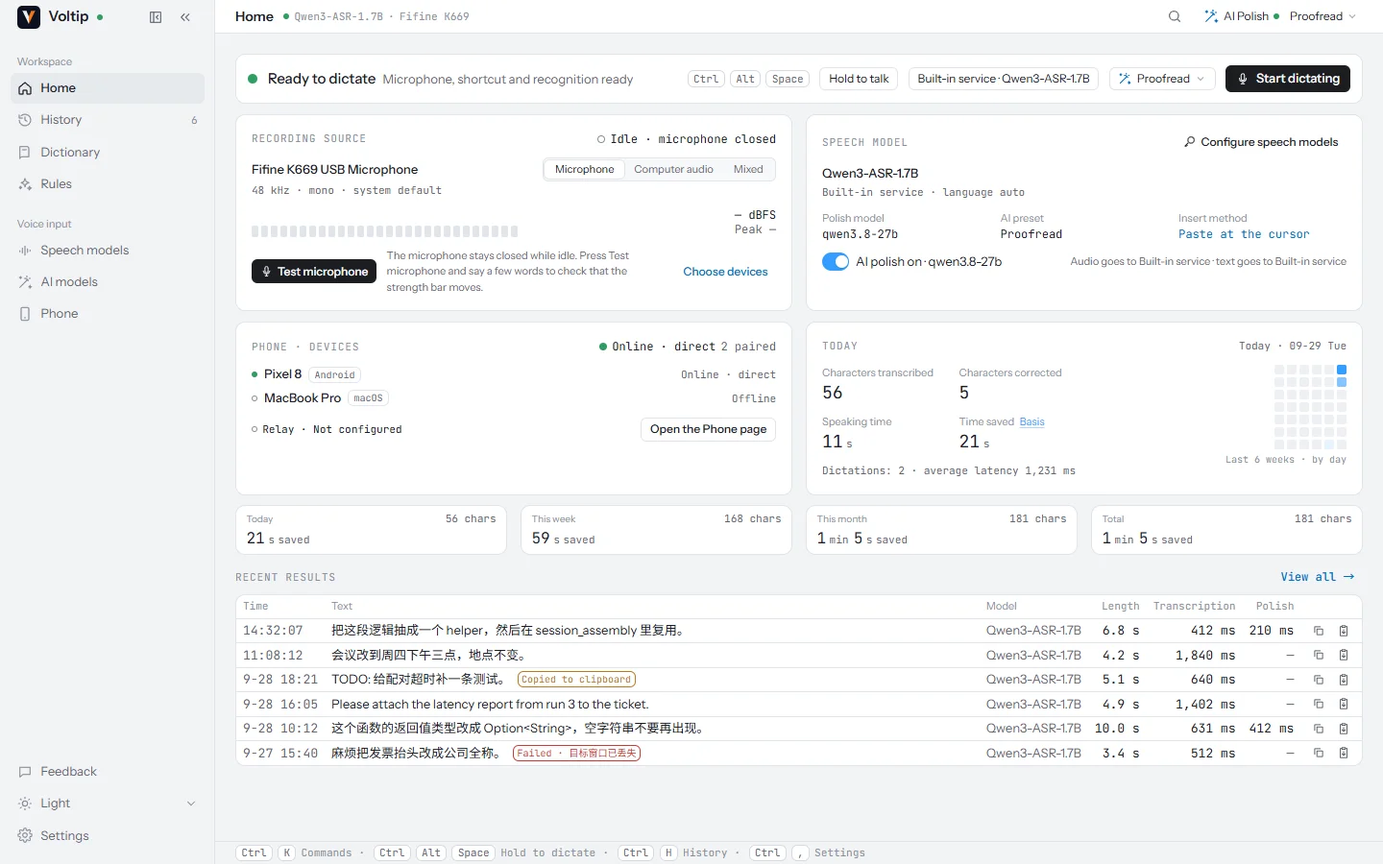
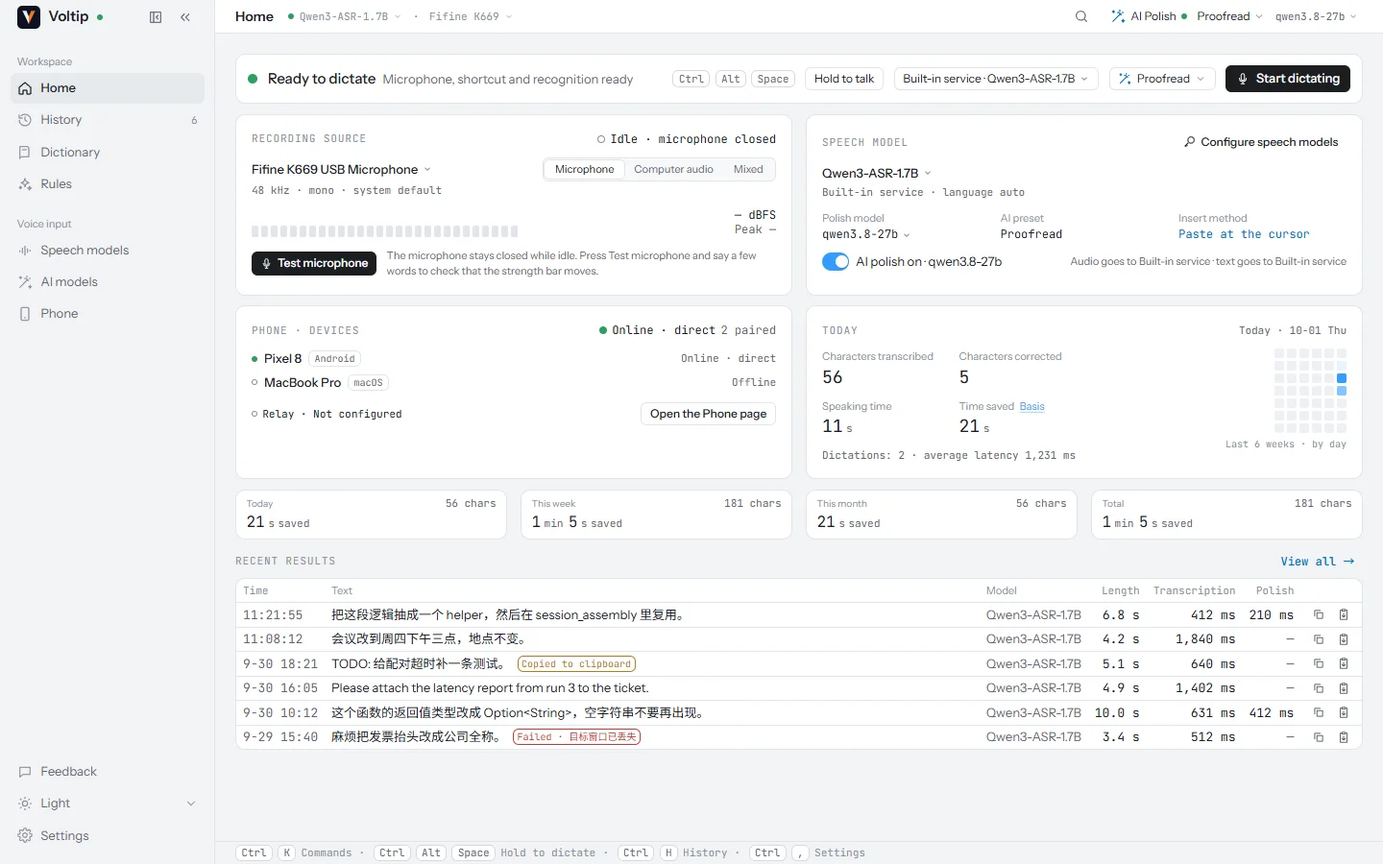
docs(voltip): sync from voltip@0d60085
Source: https://github.com/sunerpy/voltip/commit/0d60085446e918ea8d0e398802675c93cbf6c0b5

diff --git a/voltip/src/zh/dev/frontend.md b/voltip/src/zh/dev/frontend.md
@@ -18,7 +18,7 @@
 
 ## 2. 组件（`packages/ui`，每个都有 Vitest 测试）
 
-`Card Panel(eyebrow) Eyebrow Badge(tone: neutral|ok|accent|danger|warn|info|ink，ok = 中性底 + 绿点) Chip Button(primary|outline|ghost|danger, disabled) IconButton Toggle Segmented Input(icon, keys, focus) Select Keycap/Keycaps LedMeter Waveform(2px 条 2px 间距圆头镜像，近端 accent 尾迹 subtle 55%) Heatmap Sparkline Progress Table(列类型 text|mono|chip|badge|toggle|progress|lamp|actions|keys|link|radio|two) LampText Readout Pill(胶囊八态) Toast Dialog(叠加时各有名称，Esc 只关最上面的) Menu(菜单按钮：单选行 / 命令行 / 分组，键盘可用，每行不折行) EmptyState CommandPalette ThemeTile Sidebar Toolbar(读数：中文标签 + 可读值 + 状态点) StatusRow`
+`Card Panel(eyebrow) Eyebrow Badge(tone: neutral|ok|accent|danger|warn|info|ink，ok = 中性底 + 绿点) Chip Button(primary|outline|ghost|danger, disabled) IconButton Toggle Segmented Input(icon, keys, focus) Select Keycap/Keycaps LedMeter Waveform(2px 条 2px 间距圆头镜像，近端 accent 尾迹 subtle 55%) Heatmap Sparkline Progress Table(列类型 text|mono|chip|badge|toggle|progress|lamp|actions|keys|link|radio|two) LampText Readout Pill(胶囊八态) Toast Dialog(叠加时各有名称，Esc 只关最上面的) Menu(菜单按钮：单选行 / 命令行 / 分组，单选行可带右侧次要文字 `detail` 与 `disabled`（键盘跳过），`onOpen` 在每次打开时调用，键盘可用，每行不折行) EmptyState CommandPalette ThemeTile Sidebar Toolbar(读数：中文标签 + 可读值 + 状态点) StatusRow`
 
 ## 3. IPC 契约（`packages/shared`）
 
@@ -135,9 +135,10 @@ type UiEvent = { type: "state" } & UiState | { type: "identity" } & DeviceIdenti
 
 桌面（`apps/desktop/src`，窗口 1152×720 起，最小 960×600，可缩放）：侧栏 224 + **标题栏 40** + 主区。
 
-- **标题栏只做标题栏，但把事实放回标题栏**：主窗口无原生装饰（`tauri.conf.json` `decorations: false, shadow: true`；macOS 由 `tauri.macos.conf.json` 保留交通灯 `titleBarStyle: "Overlay"`，并按 RFC 7396 完整重述窗口几何），`packages/ui` `TitleBar` 与侧栏品牌行构成一条连续的 40 px `data-tauri-drag-region="deep"`。标题栏从左到右：页标题（拖拽区）→ **紧凑读数**（`readouts` prop，`data-testid="title-bar-readout"`：mono 11 px `text-fg-subtle`，最多两项——默认引擎模型 + 令牌状态灯、麦克风短名——以 ` · ` 分隔，窄时省略号截断，窗口窄于 `md`（768 px）时 `hidden md:flex` 整体隐藏；标签只进 tooltip，不上屏；仍在拖拽区内）→ `Ctrl K` 搜索**图标按钮**（tooltip「搜索或输入命令 · Ctrl K」，没有输入框）→ **AI 润色开关**（`wand` 图标 + 文字「AI 润色」/「AI Polish」+ 状态灯，`aria-label="润色 · 开/关"`，tooltip 说明开关方向；点击真实写 `settings_set_engines { refine_enabled }`，`aria-pressed` 跟随 `state.engines.refine_enabled`）→ Windows / Linux 最右 46×40 的最小化 · 最大化/还原 · 关闭（`apps/desktop/src/app/window.ts` 包一层 `getCurrentWindow()`，浏览器预览无 Tauri 时不画按钮；平台由 UA 判定 `app/platform.ts`，identity 只作兜底）。**标题栏下方没有第二行页头**（原 `PageHeader` 组件已删除）；标题栏上没有示例数据 chip。不自写双击最大化；触控 / 笔用 `startDragging()` 兜底。已接受的降级：Windows 11 Snap Layouts 悬停面板不可用（WebView2 上游限制）。
+- **标题栏只做标题栏，但把事实放回标题栏**：主窗口无原生装饰（`tauri.conf.json` `decorations: false, shadow: true`；macOS 由 `tauri.macos.conf.json` 保留交通灯 `titleBarStyle: "Overlay"`，并按 RFC 7396 完整重述窗口几何），`packages/ui` `TitleBar` 与侧栏品牌行构成一条连续的 40 px `data-tauri-drag-region="deep"`。标题栏从左到右：页标题（拖拽区）→ **读数菜单**（`readout` 插槽，`role="group"`、`data-testid="title-bar-readout"`：mono 11 px `text-fg-subtle`，两个菜单按钮以 ` · ` 分隔——语音模型 + 令牌状态灯（本地模型带「本机」标签）、麦克风短名——窄时省略号截断，窗口窄于 `md`（768 px）时 `hidden md:flex` 整体隐藏；按钮之间的空白仍是拖拽区；点击就地切换，见下条「切换菜单」；`readouts` prop 保留，给只有文字读数的场合）→ `Ctrl K` 搜索**图标按钮**（tooltip「搜索或输入命令 · Ctrl K」，没有输入框）→ **AI 润色开关**（`wand` 图标 + 文字「AI 润色」/「AI Polish」+ 状态灯，`aria-label="润色 · 开/关"`，tooltip 说明开关方向；点击真实写 `settings_set_engines { refine_enabled }`，`aria-pressed` 跟随 `state.engines.refine_enabled`）、预设菜单与**润色模型菜单**（`refine_model` 的短名，`data-testid="polish-model"`）→ Windows / Linux 最右 46×40 的最小化 · 最大化/还原 · 关闭（`apps/desktop/src/app/window.ts` 包一层 `getCurrentWindow()`，浏览器预览无 Tauri 时不画按钮；平台由 UA 判定 `app/platform.ts`，identity 只作兜底）。**标题栏下方没有第二行页头**（原 `PageHeader` 组件已删除）；标题栏上没有示例数据 chip。不自写双击最大化；触控 / 笔用 `startDragging()` 兜底。已接受的降级：Windows 11 Snap Layouts 悬停面板不可用（WebView2 上游限制）。
 - **设置是模态对话框**：`/settings/:section` 仍是路由（深链、测试），但渲染为 `SettingsDialog`（`min(960px, 100vw-48px) × min(660px, 100vh-48px)`，左 200 px 分组导航 + 右侧流式内容），压在路由 `background`（上一个非设置页面，默认首页）之上；Esc / 遮罩 / 关闭按钮回到 background；标题栏读数保持 background 页面的。
 - **设置 › 听写**（2026-09-29）：插入方式（粘贴到光标处 / 仅复制到剪贴板，`settings_set_engines { inject }`）只在这里设置；首页识别引擎卡的插入方式读数链接到这里。
+- **切换菜单**（`apps/desktop/src/features/switchers/`，2026-09-30 用户要求，2026-10-01 确认方案 A：预设与模型是两个下拉）：标题栏与首页共用三个菜单，行与选中后的设置由纯函数 `switchers.ts` 生成（行 id 由 `choiceId` / `parseChoice` 往返）。`SpeechModelMenu`：「内置服务」组在前，然后是每个已设置、能运行的云端服务商（未设置密钥或缺少地址的服务商不列出，2026-10-01 用户决定），各列其模型；「本地模型」组列出已安装的识别模型（档位名 + 产品名，`modelFamilyName`）；末行「管理语音模型…」进 `/speech`。`PolishModelMenu`：按提供 LLM 的可用服务商分组列模型，末行「管理 AI 模型…」进 `/ai`。选中写 `settings_set_engines`（`engineSettingsFor`：内置服务只切换服务商；其他服务商经 `applyProviderDraft` 写入模型并保留已保存的地址；本地模型经 `activateLocalModel`）。`MicrophoneMenu`：挂载时和每次打开时重读 `audio_devices`（刚插上的 USB 麦克风也在），「系统默认（{名称}）」在前，再列各设备短名；所选设备未连接时仍列出，带「未连接」、选中且不可选；选中写 `settings_set_microphone`；标题栏的菜单另有「录音来源」组（麦克风 / 电脑声音 / 混合，电脑声音不可用的平台不出现），末行「录音来源设置…」打开 设置 › 录音来源。首页：就绪行的语音模型 chip（`home-engine-chip`）、麦克风卡的设备名（`home-mic-device`，原「选择设备」按钮去掉；只录电脑声音时是纯文字）、识别引擎卡的模型名（`home-engine-model`）与「润色模型」（`home-refine-model`）都是这三个菜单的按钮。
 - **引擎页是服务商卡片**：「语音识别」「文本润色」「识别设置」三组。前两组各列一排服务商卡片（`ProviderCard`，按目录顺序，在用的那张带环、默认展开并标「使用中」），展开后选模型（预设 → 测试连接列出的 → 任意 id）、填接口地址（仅自定义接口）与密钥（`password` 字段，永远空着打开，只经 `provider_key_set` 写入；已保存时只显示「已保存」），「测试连接」= `provider_probe`，「使用」写 `settings_set_engines`；内置服务卡只写「内置服务的地址和密钥在构建时写进应用，这里不显示」。「本机」卡片里是真实的模型库（`LocalModels`）：只列识别模型（`capabilities` 含 `offline`），按产品档位排序 均衡 → 高精度 → 轻量 → 轻量 · 中文（`offlineModelsByTier`，同档位保持核心顺序，`listitem` 带 `data-tier`），卡片标题在中文下用核心的 `name`、英文下按 id 查字典（`modelDisplayName`），描述同理（`modelDescription`），下载 / 取消 / 重试 / 删除 / 使用此模型全部是真实核心命令。第三节「实时预览」（`LivePreview`，docs/dictation.md §11）：开关写 `settings_set_engines { live_preview }`（整块下发），状态灯行读 `state.engines.live_preview_ready`（已就绪 / 模型未下载 / 已关闭，`data-state`），下方是流式模型 `zipformer-stream-zh-en` 的同款卡片——只有下载 / 取消 / 重试 / 删除，**没有**「使用此模型」（`modelAction` → `installed`：它不是识别模型，永不 `active`）。第四节「输出方式」（`OutputMode`，docs/dictation.md §12，2026-09-26）：三张 `OptionCard`（`role="listbox"`，`aria-label="输出方式"`）——整段输出 / 流式定稿 / 实时注入，选中写 `settings_set_engines { output_mode }`；状态灯行与「当前生效」徽标读 `state.engines.effective_output_mode`（`data-mode` = 所选，`data-effective` = 实际），流式模型未下载时两张流式卡带「模型未下载」徽标、所选流式卡下方出「流式模型未下载，当前按整段输出运行」（`output-mode-fallback`）；`output_mode = live_inject` 且润色开着时 LLM 润色卡内出「实时注入下不润色」（`refine-live-inject`）。第五节「静音裁剪」（`VadTrim`）：`Toggle` 写 `settings_set_engines { vad_trim }`，仅本机识别时可用，云端下禁用并注明「仅本地识别可用；云端识别不裁剪」（`data-state` = on / off / cloud）。「本机」卡片最后是「运行设备」（`LocalCompute`，§10.6）：自动 / CPU / GPU（没有可用 GPU 时禁用 GPU）、多块 GPU 时选哪块、推理线程。
 - **自适应**：页面根 `mx-auto w-full max-w-[1440px]`（首页 1600），网格只用 `minmax(0,1fr)` / `auto-fill`，没有固定像素面板宽；每页一条 `regression: … is fluid` 测试禁止 `w-[NNNpx]` 面板。
 - 路由 `/`（首页）`/history` `/dictionary` `/rules` `/engines` `/devices`（配对面板 = 二维码 + 6 位码 + 倒计时 + 设备表）`/settings/:section`（对话框）`/onboarding`（权限 → 热键 → 引擎 → 试说，四步）；`Ctrl K` 命令菜单；悬浮胶囊作为独立路由 `/overlay?state=` 渲染单个胶囊（独立小窗，`state=blank` 什么都不画，**`state=live` 跟随 `state.dictation`**：idle 不画；listening 波形来自 `audio_meter_start` 的实时电平 + 已用时长——`ready: false`（设备尚未送出样本）时计时停在 `00:00` 并显示「等待麦克风」提示，`ready: true` 后从重取的 `started_at` 起计；有 `live` 时胶囊长高到两行（`h-14`，窗口 64 px 减 8 px 顶部内边距），波形上方一行两色实时字幕：`committed` 正常色 + `current` 弱化色（`text-pill-muted`），中日韩边界不加空格、拉丁边界加空格（`liveTextGap`），单行、只保留末尾 40 个字符（`clipLiveCaption`，前置省略号，`data-clipped`），旁边一枚「预览」小 chip；`live.degraded` 胶囊不额外显示任何东西（首页引擎卡出一行「实时预览已中断 · 最终文本不受影响」）；processing 有 `preview` 时用弱化色的预览文本（`pill-preview`，同样只留末尾 40 字）替代「转写中…」/「润色中…」直到最终结果；inserted 显示字数与 `via`，failed 显示原因并在有 `text` 时提供真实「复制文本」，cancelled 用 danger 胶囊），**§12 / §13（2026-09-26）**：`listening.locked` 时锁标（`pill-lock`，`aria-label`「已锁定 · 再按一次结束」）替代状态灯、字幕与计时照旧；`live.injected > 0` 时已粘贴的 committed 句以更淡样式（`pill-live-injected`，`title`「已打进前台应用」）排在字幕最前、裁剪时最先被裁；`processing.stage = finalizing` 时模式 tag 显示「补齐最后一句…」而 `preview` 继续显示；`cancelled.injected_chars > 0` 时文案为「已取消，之前打进去的 N 字保留」）；`/overlay` 不带参数是胶囊规格页（八态总览 + toast / 兜底卡 / 失败原因表；`locked` 样例胶囊的「结束收音」是真实 `dictation_stop`），只在开发构建里有，发行包里这个地址显示「找不到页面」。没有 `/bridge` 路由（Bridge & MCP 不在产品范围内）；首页对应位置是由核心真实数据驱动的「手机麦克风 · 设备」卡。
@@ -174,7 +175,7 @@ type UiEvent = { type: "state" } & UiState | { type: "identity" } & DeviceIdenti
 
 | 路由 | 数据来源 | UI 如何表达 |
 |---|---|---|
-| `/` 首页 | **全部真实**：就绪行读 `state.engines`（令牌是否就位）+ 麦克风；识别引擎卡在 `live_preview_ready` 时带「实时预览」chip（`home-live-preview`），listening 且 `live.degraded` 时出一行「实时预览已中断 · 最终文本不受影响」（`home-live-degraded`，`title` 为核心原因）；本地模式的模型名中文用核心 `name`、英文按 id 查字典；组合键 keycaps 读 `state.settings.hotkey`，就绪行的 chip（按住说话 / 按一下开始 · 再按结束 / 按住说话 · 短按锁定）、页脚说明（按住听写 / 按一下听写 / 按住或按一下听写）与空态提示（`activationHint`）随 `state.settings.activation` 变化（docs/dictation.md §13）；「开始听写」= `dictation_start`，听写中变「停止」= `dictation_stop`，另有「取消」= `dictation_cancel`；就绪行下方一行实时状态（`正在听… 00:03` / `转写中…` / `已插入 42 字 · 粘贴 · 已润色` / `失败 · …`）；识别引擎卡读 `state.engines`，LLM 润色开关写 `settings_set_engines`；最近的结果读 `state.history_recent`；今日会话 / 统计条 / 近 6 周热力图来自 `history_stats`（`features/history/stats.ts`、`useHomeStats.ts`，docs/dictation.md §4.5）：今日面板写转录字数、修正字数、说话时长、节省时间，四张卡写节省时间和字数，「依据」弹层说明 × 1.9 的来源；麦克风卡为 Rust 电平；手机麦克风卡读 `state.devices` / `state.relay` | 无 chip、无徽标；令牌缺失时「还不能开始听写」+ 按钮禁用并带原因 `识别引擎缺少访问令牌 · 在「引擎」页设置`；历史为空时表格位置是空态 + 热键提示 |
+| `/` 首页 | **全部真实**：就绪行读 `state.engines`（令牌是否就位）+ 麦克风；识别引擎卡在 `live_preview_ready` 时带「实时预览」chip（`home-live-preview`），listening 且 `live.degraded` 时出一行「实时预览已中断 · 最终文本不受影响」（`home-live-degraded`，`title` 为核心原因）；本地模式的模型名中文用核心 `name`、英文按 id 查字典；组合键 keycaps 读 `state.settings.hotkey`，就绪行的 chip（按住说话 / 按一下开始 · 再按结束 / 按住说话 · 短按锁定）、页脚说明（按住听写 / 按一下听写 / 按住或按一下听写）与空态提示（`activationHint`）随 `state.settings.activation` 变化（docs/dictation.md §13）；「开始听写」= `dictation_start`，听写中变「停止」= `dictation_stop`，另有「取消」= `dictation_cancel`；就绪行下方一行实时状态（`正在听… 00:03` / `转写中…` / `已插入 42 字 · 粘贴 · 已润色` / `失败 · …`）；识别引擎卡读 `state.engines`，LLM 润色开关写 `settings_set_engines`；最近的结果读 `state.history_recent`，至少 6 行，窗口更高时按页面下方的空白增加行数，直到页面底部不再留空，最多为 `history_recent` 的全部 30 条（`features/history/recent-rows.ts` `useRowsThatFit`，2026-10-01 用户要求）；今日会话 / 统计条 / 近 6 周热力图来自 `history_stats`（`features/history/stats.ts`、`useHomeStats.ts`，docs/dictation.md §4.5）：今日面板写转录字数、修正字数、说话时长、节省时间，四张卡写节省时间和字数，「依据」弹层说明 × 1.9 的来源；麦克风卡为 Rust 电平；手机麦克风卡读 `state.devices` / `state.relay` | 无 chip、无徽标；令牌缺失时「还不能开始听写」+ 按钮禁用并带原因 `识别引擎缺少访问令牌 · 在「引擎」页设置`；历史为空时表格位置是空态 + 热键提示 |
 | `/history` | **真实** `history_query` 分页读库（`history.sqlite3`，上限 2 万，docs/dictation.md §4.4） | 横幅写保留条数（`settings.history.keep`）；每页 100 条，滚动到底加载下一页（另有「加载更多」），列表下方写「已显示 n / m 条」；筛选与搜索交给核心（搜索停止输入 200 ms 后发出）；筛选 全部 / 今天 / 本周 / 本月 / 已收藏 / 未插入；搜索文本 / 原文 / 模型 / 应用 / 场景；带上下文的条目在日志行显示应用名 + 场景徽标（`history-context`），详情显示「应用：名称 · id」与「场景」（没有匹配为「未匹配场景」，docs/dictation.md §18.6）；星标 = `history_star`，删除 = 确认 + `history_delete`（选中相邻项），全部清空 = 确认 + `history_clear`；复制走 `copyWithToast`；原文 / 润色后 / 对比 diff 来自 `raw_text` 与 `text`；`mode` 为流式定稿 / 实时注入的条目在日志行与详情页头带 `Badge`（`history-mode` / `history-detail-mode`），整段不显示；`live_error` 有值时详情里出「流式回退：…」（`history-live-error`）；空态提示随 `settings.activation`；详情列出本次触发的词典纠正与规则（`history-vocabulary`，名称取当前列表，已删除的写「已删除的词条 / 规则」）；「加入词典」打开对话框（曾听成用当前选区预填，正确写法手填）提交 `dictionary_add { historyId }`，核心拒绝时对话框保留并显示原因；没有「重新插入」「保留时长」等无后端控件 |
 | `/dictionary` | **真实** `state.dictionary`（`dictionary.json`，上限 500，按匹配顺序） | 新建（表上方一行）/ 行内编辑（Enter 保存、Esc 取消）/ 启用开关 / 上移下移 / 删除（行内确认）= `dictionary_*`；输入时本地查空、超长、重复正确写法、写法过多，其余由核心判定（reject 原文留在编辑器，冲突为 `error` toast）；「命中」列与「历史记录里的命中」chip 汇总 `history[*].vocabulary.corrections`；「试一试」= `vocabulary_preview`（防抖，列表变化重问），「用最近一次听写」取 `history[0].raw_text`；说明卡写明词表去向（云端识别与 AI 润色；本地模型不接收）；`Ctrl N` 新建；没有 CSV、权重、复制为规则、示例页脚 |
 | `/rules` | **真实** `state.rules`（`rules.json`，上限 200，按执行顺序） | 一张表（序号 / 名称 / 类型 / 匹配 + `Aa` / 替换或「（删除）」/ 命中 / 启用）；编辑器本地查空名称、重名、空匹配，再用 `vocabulary_preview("", draft)` 让核心编译检查（失败原文进状态行、禁用保存），`Ctrl S` 保存、`Esc` 取消、`Ctrl N` 新建；上移下移 = `rules_reorder`，删除 = 确认 + `rules_remove`；「试运行」（`Ctrl ↵`）= `vocabulary_preview`，可带正在编辑的草稿（「名称（未保存）」）；「导入 TOML」文本对话框（合并 / 替换，核心整份校验，拒绝原文含行号）、「导出 TOML」对话框显示 `rules_export` 文本并可复制；没有规则集切换、预算、作用域、逐阶段视图、示例页脚 |
@@ -191,7 +192,7 @@ type UiEvent = { type: "state" } & UiState | { type: "identity" } & DeviceIdenti
 | `Ctrl K` 命令菜单 | **真实** | 「开始听写 / 停止听写」= `dictation_start` / `dictation_stop`（处理中禁用并说明）；「复制上一条结果」复制 `state.history_recent[0].text`；「删除全部历史…」确认后 `history_clear`；历史为空时两项禁用并写「历史记录为空」 |
 | `/onboarding` | **真实** | 第 1 步每秒轮询 `permissions_status`（`docs/dictation.md` §15.1），必需权限被拒时不能继续，Linux 直接通过；第 2 步读核心的组合键与 shell 的注册结果；**第 3 步**三选一（内置服务 / 本机模型，可当场下载推荐模型 / 其他服务商，填模型与密钥，密钥经 `provider_key_set`），「保存并继续」写 `settings_set_engines`；**第 4 步**「试说一句」= `dictation_start`，变「停止」= `dictation_stop`，电平表在录音期间跟随真实电平，`done` 的 `text` 显示在框里并说明文本也已按 `via` 送到光标处，「完成设置」始终可用；没有跳过链接 |
 
-标题栏紧凑读数（`shell/page-meta.ts` `engineReadout` + `microphoneReadout`）：引擎读数一律来自 `state.engines`（`Qwen3-ASR-1.7B`，tooltip 主机 + 令牌状态；核心未报告时显示「等待核心…」），麦克风来自原生电平表枚举到的设备；`pageMeta().readouts`（历史条数、热词、中继 …）仍按页计算，供测试使用；设置对话框页头的读数来自 `settingsReadouts`（热键、外观、场景）；热键行来自 `state.settings.hotkey`；侧栏历史计数为 `state.history_total`。
+标题栏读数菜单（`features/switchers/SwitcherMenus.tsx`，按钮文字来自 `shell/page-meta.ts` `engineReadout` 与 `audio_devices`）：语音模型一律来自 `state.engines`（`Qwen3-ASR-1.7B`，tooltip 主机 + 令牌状态；核心未报告时显示「等待核心…」），麦克风是所选设备（未选时为系统默认）的短名，设备列表未返回前用原生电平表枚举到的设备；`pageMeta().readouts`（历史条数、热词、中继 …）仍按页计算，供测试使用；设置对话框页头的读数来自 `settingsReadouts`（热键、外观、场景）；热键行来自 `state.settings.hotkey`；侧栏历史计数为 `state.history_total`。
 
 ### 6.3 回归测试
 

diff --git a/voltip/src/zh/dev/dictation.md b/voltip/src/zh/dev/dictation.md
@@ -224,7 +224,7 @@ pub struct HistoryEntry {
 
 - **筛选**：`sinceMs`（页面按本地时间算好的零点）、收藏、失败（留在剪贴板或失败，即 `outcome` 不是 `inserted`）都用 SQL 过滤。
 - **搜索**：关键词去掉首尾空白、转小写后，在 `search` 列里做子串匹配。`search` 列在写入时拼成：内置场景的中英文名、`text`、`raw_text`、两个模型、应用名和 id、场景名、编辑指令、选区、处理后文本（§22.4，保存结果时重算），各自 `to_lowercase` 后以 U+001F 分隔，所以一次匹配不会跨两个字段。
-- **状态与事件**：`UiState.history_recent`（最新 20 条）与 `history_total` 取代原来的 `UiState.history`；`UiEvent::History { recent, total }`。复制上一条、侧栏计数、规则与词典页的「用最近一次听写」读 `history_recent`。
+- **状态与事件**：`UiState.history_recent`（最新 `RECENT_ENTRIES = 30` 条，2026-10-01 之前为 20 条）与 `history_total` 取代原来的 `UiState.history`；`UiEvent::History { recent, total }`。复制上一条、侧栏计数、规则与词典页的「用最近一次听写」读 `history_recent`。首页「最近的结果」至少显示 6 行，窗口更高时按页面下方的空白增加行数，直到页面底部不再留空，最多显示 `history_recent` 的全部条目（`useRowsThatFit`，2026-10-01 用户要求：高分辨率下表格下方空白一大片）。
 - **历史页**：每页 `HISTORY_PAGE = 100` 条，列表底部进入视野时加载下一页（也可以点「加载更多」）；搜索在停止输入 200 ms 后发出；新结果回来之前保留原来的行，第一次结果回来之前不显示空状态。收到历史事件时重新加载已加载的条数。首页表格点开的条目不在已加载的页里时，详情用 `history_entry` 取。
 
 ### 4.5 统计（2026-09-30）
@@ -721,7 +721,7 @@ Wayland 剪贴板：arboard `wayland-data-control`（wl-clipboard-rs；KDE 与 w
 - 听写状态用右下角的角标表示（跟随 `UiEvent::Dictation`，`platform::glyph_for`）：空闲时没有角标（done / failed / cancelled 的停留也算空闲），录音时是红点（macOS 为实心圆点），处理中是蓝点（macOS 为圆环）。角标外有一圈白色间隔（macOS 为镂空）。提示文字同步变化：`Voltip`、`Voltip · 正在听写`、`Voltip · 正在处理`。
 - 菜单依次为：打开 Voltip、设置…、检查更新…（仅在构建带更新源时出现）、分隔线、退出 Voltip。语言跟随 `settings.locale`。设为 `system` 时按系统显示语言解析：Windows 用 `GetUserDefaultUILanguage`，macOS 用 `NSLocale.preferredLanguages` 首项，与 webview 的 `navigator.language` 同源；读不到时用中文。
 - 「设置…」和「检查更新…」先显示主窗，再向主窗发 `voltip://tray`（`{ action: "settings" | "update" }`），由界面打开设置对话框或更新对话框；更新状态为空闲、已是最新或失败时，顺带检查一次。
-- Windows 左键单击显示主窗，右键弹出菜单。macOS 单击弹出菜单，与菜单栏惯例一致。
+- Windows 左键单击或双击显示主窗，右键弹出菜单。macOS 双击显示主窗而不弹菜单，单击在系统的双击间隔（`NSEvent.doubleClickInterval`，限定在 150–2000 ms）过后弹出菜单，右键立即弹出菜单（2026-09-30 用户要求）。tray-icon 只在 Windows 上报告双击，所以 macOS 关掉 `show_menu_on_left_click`，由 `voltip_platform::tray::ClickSeries` 按左键抬起的时刻区分单击与双击：第一次抬起后等一个间隔，期间再抬起一次即为双击；等待结束仍无第二次时在主线程调用 `show_menu()`（`performClick`，菜单关闭前不返回，因此不占用运行时的工作线程）；每次等待带代次号，过期的定时什么也不做，右键按下会取消正在等待的单击。冒烟脚本用真实鼠标事件验证：`scripts/smoke-tray-macos.sh` 第 4e 步单击后菜单出现的时刻不早于日志里的间隔（`tray click: menu after_ms=…`）、双击后主窗出现且菜单不出现，菜单是否打开以 App 发出的 AXMenuOpened 通知为准（辅助功能树里状态栏菜单不论开没开都在）；`scripts/smoke-tray-windows.ps1` 第 4e 步双击后主窗可见，并记下系统是否报告了双击（图标在通知区溢出面板里时，主窗弹出可能先关掉面板；双击落在面板关闭的时刻时找到按钮重试，最多四次，App 日志的 `tray click: main window` 记下每次收到的单击）。
 - 关闭主窗口（标题栏 ×、Alt+F4、红色交通灯）的行为由 `main_window_close` 决定：macOS 总是隐藏，Dock 与托盘都能找回；Windows 有托盘时隐藏，没有托盘时退出；Linux 退出。此前关闭会销毁主窗口，而预热的悬浮窗仍让进程存活，托盘和二次启动都找不到窗口，也没有退出入口（2026-09-28 用户反馈）。
 
 ### 15.5 打包矩阵

diff --git a/voltip/src/reference/platforms.md b/voltip/src/reference/platforms.md
@@ -14,7 +14,7 @@ Voltip is the same app on every desktop system. This page lists what differs bet
 - **Windows that run as administrator**: Windows does not let an ordinary app type into them. Voltip notices this before pasting and leaves the text on the clipboard instead.
 - **Secure desktop**: the sign-in screen and elevation prompts refuse typed input from apps.
 - **Voice edit** copies the selection with <kbd>Ctrl</kbd> <kbd>Insert</kbd>. On keyboard layouts where AltGr types characters, <kbd>Ctrl</kbd> <kbd>Alt</kbd> <kbd>E</kbd> can clash with AltGr+E; choose another shortcut there.
-- **Tray**: left-click opens Voltip, right-click opens the menu. Closing the window keeps Voltip running in the tray.
+- **Tray**: a click or a double click opens Voltip, a right click opens the menu. Closing the window keeps Voltip running in the tray.
 - **GPU**: Vulkan, with the graphics driver's Vulkan support. The Vulkan loader ships with Voltip.
 - **Computer audio** is recorded from the output device you choose, with nothing to set up.
 
@@ -25,7 +25,7 @@ Voltip is the same app on every desktop system. This page lists what differs bet
 - **Permissions**: the microphone, and Accessibility, which Voltip needs to paste and to use a single key as the trigger. Voltip does not need Input Monitoring. From version 0.0.7 on, releases share one signing certificate so that updates keep the permissions; the first such update has not been checked on a real Mac yet.
 - **Fn as the trigger**: set **When pressing the 🌐 key** to **Do Nothing** under System Settings → Keyboard.
 - **Scenes** recognise the app but not the window title.
-- **Tray**: clicking the menu bar icon opens the menu. Closing the window keeps Voltip running; it can be reopened from the Dock or the menu bar.
+- **Tray**: a click on the menu bar icon opens the menu, and a double click opens the Voltip window. The menu appears once the double-click interval set in System Settings has passed, so that a double click does not open it. Closing the window keeps Voltip running; it can be reopened from the Dock or the menu bar.
 - **GPU**: Metal.
 - **Computer audio** needs macOS 14.6 or later; on earlier versions the option is dimmed. The first time you record it, macOS asks whether Voltip may record the audio of other apps; the choice can be changed later under System Settings → Privacy & Security.
 

diff --git a/voltip/src/recognition/polish.md b/voltip/src/recognition/polish.md
@@ -6,11 +6,11 @@ description: What AI polish changes in the recognised text, how to turn it on or
 
 AI polish tidies the recognised text before it is inserted. What it does depends on the [preset](#presets) in use. The default preset, **Proofread**, fixes punctuation and typos and removes filler words and repetitions; it does not change what you said, translate it or add to it.
 
-Turn it on or off with the **AI Polish** switch in the title bar, and choose the preset from the menu next to it. A [scene](/recognition/scenes) can turn it on or off, and choose a preset, for a particular app.
+Turn it on or off with the **AI Polish** switch in the title bar. The two menus next to it choose the preset and the model that polishes the text. A [scene](/recognition/scenes) can turn it on or off, and choose a preset, for a particular app.
 
 ## Services
 
-AI polish uses the service chosen on the **AI models** page: the built-in service, OpenAI, Groq, SiliconFlow, DeepSeek, a local Ollama, or any OpenAI-compatible endpoint. See [Cloud services](/recognition/cloud) for setting one up.
+AI polish uses the service and model chosen on the **AI models** page, or from the model menu next to the **AI Polish** switch: the built-in service, OpenAI, Groq, SiliconFlow, DeepSeek, a local Ollama, or any OpenAI-compatible endpoint. The same menu is on the home page; it lists the models of the built-in service and of each provider that is set up. See [Cloud services](/recognition/cloud) for setting one up.
 
 If the service does not answer, the recognised text is inserted without polish, and the dictation is not lost.
 

diff --git a/voltip/src/guide/quick-start.md b/voltip/src/guide/quick-start.md
@@ -14,7 +14,7 @@ These steps take you from a fresh install to text at your cursor, and then to re
 
 The text appears at the cursor, and the result is listed under the latest results on the home page.
 
-If nothing arrives, press **Test microphone** on the home page and say a few words: the strength bar should move. [Questions and troubleshooting](/reference/faq) covers the usual causes.
+If nothing arrives, press **Test microphone** on the home page and say a few words: the strength bar should move. To record from another microphone, click its name on the home page or in the title bar and choose the device. [Questions and troubleshooting](/reference/faq) covers the usual causes.
 
 The setup guide under **Settings → General** walks through the shortcut, the recognition service and a test dictation.
 
@@ -26,7 +26,7 @@ To keep the audio on your computer:
 2. Download a model. **Qwen3-ASR 0.6B** (690 MB) is the recommended one; **SenseVoice Small** (240 MB) is the smallest.
 3. Select the model when the download is finished.
 
-From then on, no audio leaves the computer. [Local recognition](/recognition/local) compares the models and explains when the graphics card is used.
+From then on, no audio leaves the computer. To switch between the downloaded models, or back to the built-in service, click the speech model name in the title bar or on the home page. [Local recognition](/recognition/local) compares the models and explains when the graphics card is used.
 
 ## On Linux with Wayland
 

diff --git a/voltip/src/reference/faq.md b/voltip/src/reference/faq.md
@@ -13,7 +13,7 @@ When dictation does not behave as expected, look for the symptom below; each ans
 Check the overlay and the latest entry in the history; they say what happened.
 
 - **The text is on the clipboard**: Voltip could not paste, and the entry says why. Paste with <kbd>Ctrl</kbd> <kbd>V</kbd>, or <kbd>⌘</kbd> <kbd>V</kbd> on a Mac. On a Mac, check that Voltip has the Accessibility permission. On Linux with Wayland, install a paste tool; see [Platform notes](/reference/platforms#pasting).
-- **"No speech detected"**: the recording was silent or shorter than about a third of a second. Press **Test microphone** on the home page and check the strength bar, and the input device under **Settings → Microphone**.
+- **"No speech detected"**: the recording was silent or shorter than about a third of a second. Press **Test microphone** on the home page and check the strength bar, and the input device: click the microphone name on the home page, or open **Settings → Recording source**.
 - **An error**: the recognition service could not be reached, or a key or model is missing. The home page shows which service is in use and what it needs.
 
 ### The shortcut does nothing

diff --git a/voltip/src/zh/reference/faq.md b/voltip/src/zh/reference/faq.md
@@ -13,7 +13,7 @@ description: Voltip 的常见问题解答和常见故障的处理方法。
 先查看悬浮窗和历史记录中最新的一条，它们会说明发生了什么。
 
 - **文字在剪贴板中**：Voltip 无法粘贴，记录中写明了原因。用 <kbd>Ctrl</kbd> <kbd>V</kbd>（Mac 上为 <kbd>⌘</kbd> <kbd>V</kbd>）粘贴即可。在 Mac 上，请确认 Voltip 已获得辅助功能权限；在 Linux 的 Wayland 会话中，请安装粘贴工具，见[各平台说明](/zh/reference/platforms#粘贴)。
-- **「没有听到声音」**：录音是静音，或短于约 0.3 秒。在首页点「测试麦克风」查看强度条，并在「设置 → 麦克风」中检查输入设备。
+- **「没有听到声音」**：录音是静音，或短于约 0.3 秒。在首页点「测试麦克风」查看强度条，并检查输入设备：点首页上的麦克风名称，或打开「设置 → 录音来源」。
 - **出现错误**：无法连接识别服务，或缺少密钥、模型。首页会显示当前使用的服务及其所需的设置。
 
 ### 按快捷键没有反应

diff --git a/voltip/src/recognition/cloud.md b/voltip/src/recognition/cloud.md
@@ -32,7 +32,14 @@ A provider that offers both services uses one key for both.
 3. Enter your key. **Test connection** checks the address and the key and lists the models the provider offers.
 4. Choose **Use** to switch to the provider.
 
-The home page shows which provider is in use and whether it is ready.
+## Switching models
+
+The title bar and the home page show the speech model and the AI polish model in use, and whether they are ready. Click either name to switch without opening its page:
+
+- The speech model menu lists the built-in service, each provider you have set up, and the local models you have downloaded.
+- The AI polish model menu, to the right of the **AI Polish** switch, lists the models of the built-in service and of each provider you have set up.
+
+Providers that are not set up do not appear in these menus. **Manage speech models…** and **Manage AI models…** at the end of the menus open the pages where you set them up.
 
 ## Keys
 

diff --git a/voltip/src/dictation/shortcuts.md b/voltip/src/dictation/shortcuts.md
@@ -48,11 +48,11 @@ On a pure Wayland session, bind a system shortcut to `voltip-desktop --cancel` i
 
 ## Recording source
 
-Under **Settings → Recording source**, or with the switch on the home page, choose what a dictation records:
+Under **Settings → Recording source**, with the switch on the home page, or from the microphone menu in the title bar, choose what a dictation records:
 
 | Source | Records |
 | --- | --- |
-| **Microphone** (default) | The chosen microphone, or the system's default input. |
+| **Microphone** (default) | The chosen microphone, or the system's default input. Choose the microphone from its name on the home page or in the title bar, or under Settings → Recording source. |
 | **Computer audio** | The sound your computer plays, such as a meeting, a call or a video, from the chosen output device or the system's default output. |
 | **Mixed** | Both together. |
 
